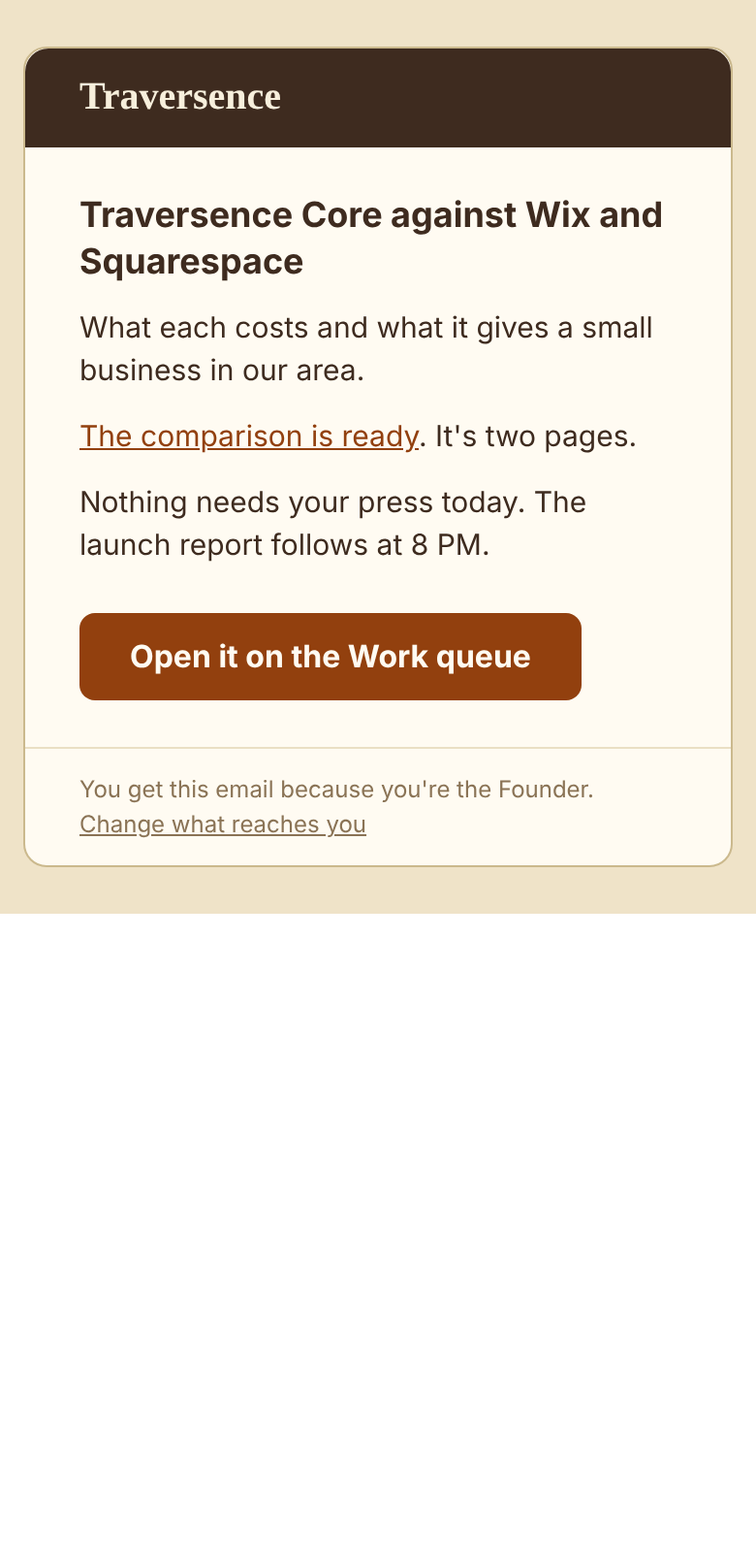
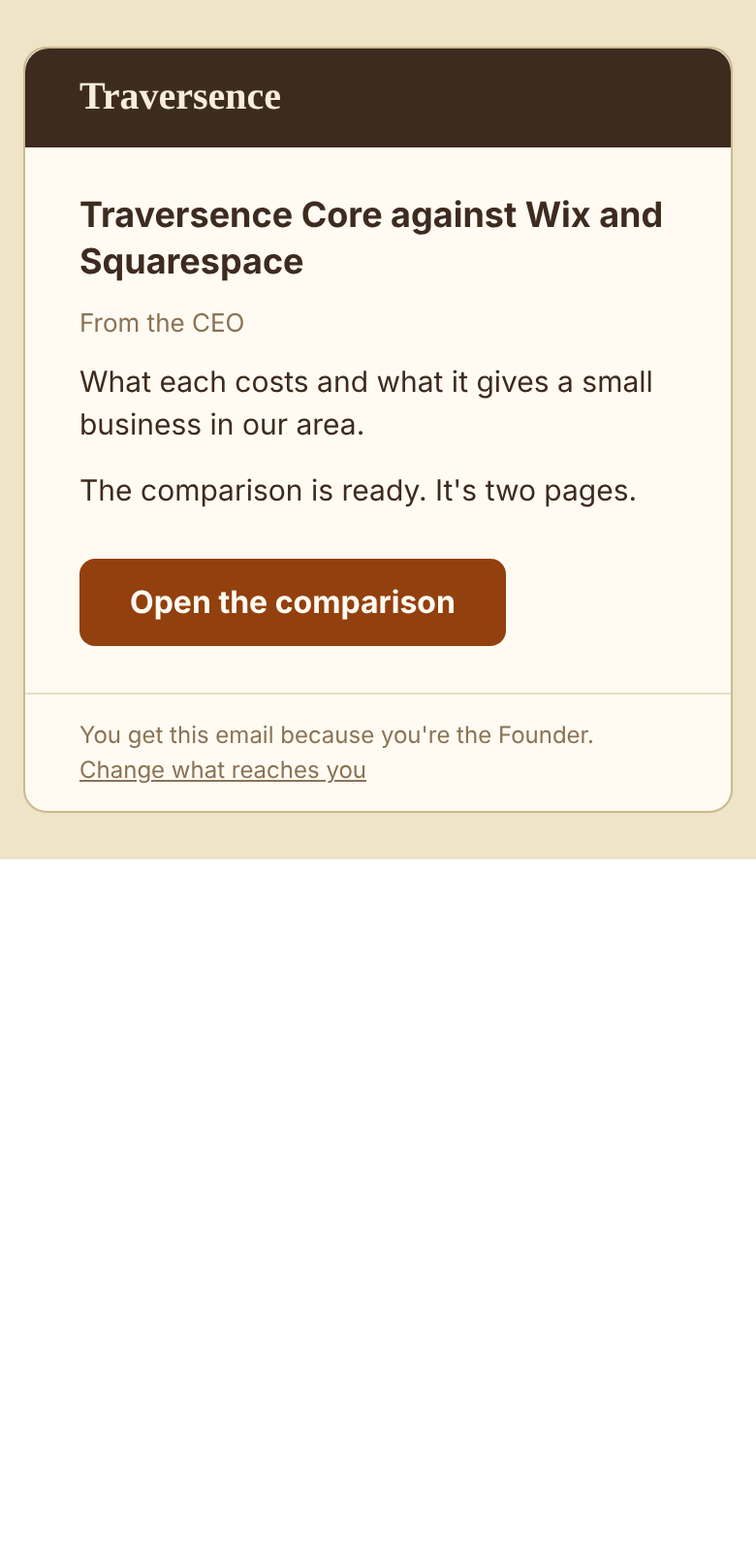
founder-link: the Founder's template (one button named for its target, From the CEO, the choices' name; gauges.py carries from)
Claude-Session: https://claude.ai/code/session_01CXLi5inRHU7bxiyPoYoi4v

Changed region(s): [[0.0, 0.1875, 1.0, 0.5938]]

diff --git a/handoffs/founder-link/screens/email.html b/handoffs/founder-link/screens/email.html
@@ -1,1 +1,1 @@
-<!doctype html><meta name=viewport content="width=device-width,initial-scale=1"><body style="margin:0"><table role="presentation" width="100%" cellpadding="0" cellspacing="0" bgcolor="#EFE3C8" style="background:#EFE3C8"><tr><td align="center" style="padding:24px 12px"><table role="presentation" width="100%" cellpadding="0" cellspacing="0" bgcolor="#FFFBF2" style="width:100%;max-width:560px;background:#FFFBF2;border:1px solid #CBB98D;border-radius:12px"><tr><td bgcolor="#3E2B1F" style="padding:14px 28px;border-radius:12px 12px 0 0;font-family:Georgia,serif;font-size:20px;font-weight:700;color:#F7EFDC">Traversence</td></tr><tr><td style="padding:24px 28px 10px;font-family:Segoe UI,Roboto,Helvetica,Arial,sans-serif;font-size:18px;font-weight:700;line-height:24px;color:#3E2B1F">Traversence Core against Wix and Squarespace</td></tr><tr><td style="padding:0 28px 6px"><p style="margin:0 0 12px;font-family:Segoe UI,Roboto,Helvetica,Arial,sans-serif;font-size:15px;line-height:22px;color:#3E2B1F">What each costs and what it gives a small business in our area.</p><p style="margin:0 0 12px;font-family:Segoe UI,Roboto,Helvetica,Arial,sans-serif;font-size:15px;line-height:22px;color:#3E2B1F"><a href="https://github.com/degraffics/traversence/blob/main/research/compare/compare.pdf" style="color:#92400E;text-decoration:underline">The comparison is ready</a>. It&#039;s two pages.</p><p style="margin:0 0 12px;font-family:Segoe UI,Roboto,Helvetica,Arial,sans-serif;font-size:15px;line-height:22px;color:#3E2B1F">Nothing needs your press today. The launch report follows at 8 PM.</p></td></tr><tr><td style="padding:6px 28px 24px"><table role="presentation" cellpadding="0" cellspacing="0"><tr><td bgcolor="#92400E" style="border-radius:8px;padding:12px 26px"><a href="https://traversence.com/admin/config/control?tab=development#wq-212" style="display:inline-block;font-family:Segoe UI,Roboto,Helvetica,Arial,sans-serif;font-size:16px;font-weight:700;color:#FFFBF2;text-decoration:none"><span style="color:#FFFBF2;text-decoration:none">Open it on the Work queue</span></a></td></tr></table></td></tr><tr><td style="padding:12px 28px;border-top:1px solid #EADFC4;font-family:Segoe UI,Roboto,Helvetica,Arial,sans-serif;font-size:12px;line-height:18px;color:#8A7355">You get this email because you&#039;re the Founder. <a href="https://traversence.com/admin/dashboard/comms" style="color:#8A7355;text-decoration:underline">Change what reaches you</a></td></tr></table></td></tr></table>
+<!doctype html><meta name=viewport content="width=device-width,initial-scale=1"><body style="margin:0"><table role="presentation" width="100%" cellpadding="0" cellspacing="0" bgcolor="#EFE3C8" style="background:#EFE3C8"><tr><td align="center" style="padding:24px 12px"><table role="presentation" width="100%" cellpadding="0" cellspacing="0" bgcolor="#FFFBF2" style="width:100%;max-width:560px;background:#FFFBF2;border:1px solid #CBB98D;border-radius:12px"><tr><td bgcolor="#3E2B1F" style="padding:14px 28px;border-radius:12px 12px 0 0;font-family:Georgia,serif;font-size:20px;font-weight:700;color:#F7EFDC">Traversence</td></tr><tr><td style="padding:24px 28px 10px;font-family:Segoe UI,Roboto,Helvetica,Arial,sans-serif;font-size:18px;font-weight:700;line-height:24px;color:#3E2B1F">Traversence Core against Wix and Squarespace</td></tr><tr><td style="padding:0 28px 10px;font-family:Segoe UI,Roboto,Helvetica,Arial,sans-serif;font-size:13px;line-height:18px;color:#8A7355">From the CEO</td></tr><tr><td style="padding:0 28px 6px"><p style="margin:0 0 12px;font-family:Segoe UI,Roboto,Helvetica,Arial,sans-serif;font-size:15px;line-height:22px;color:#3E2B1F">What each costs and what it gives a small business in our area.</p><p style="margin:0 0 12px;font-family:Segoe UI,Roboto,Helvetica,Arial,sans-serif;font-size:15px;line-height:22px;color:#3E2B1F">The comparison is ready. It&#039;s two pages.</p></td></tr><tr><td style="padding:6px 28px 24px"><table role="presentation" cellpadding="0" cellspacing="0"><tr><td bgcolor="#92400E" style="border-radius:8px;padding:12px 26px"><a href="https://github.com/degraffics/traversence/blob/main/research/compare/compare.pdf" style="display:inline-block;font-family:Segoe UI,Roboto,Helvetica,Arial,sans-serif;font-size:16px;font-weight:700;color:#FFFBF2;text-decoration:none"><span style="color:#FFFBF2;text-decoration:none">Open the comparison</span></a></td></tr></table></td></tr><tr><td style="padding:12px 28px;border-top:1px solid #EADFC4;font-family:Segoe UI,Roboto,Helvetica,Arial,sans-serif;font-size:12px;line-height:18px;color:#8A7355">You get this email because you&#039;re the Founder. <a href="https://traversence.com/admin/dashboard/comms" style="color:#8A7355;text-decoration:underline">Change what reaches you</a></td></tr></table></td></tr></table>

diff --git a/handoffs/founder-link/build/app/lib/FounderMail.php b/handoffs/founder-link/build/app/lib/FounderMail.php
@@ -57,7 +57,7 @@ final class FounderMail
         $lines = (array) $b['lines'];
         $body = ($b['date'] === gmdate('Y-m-d') ? "Today's batch: " : 'The batch of ' . date('M j', (int) strtotime($b['date'])) . ': ') . count($lines) . ' release' . (count($lines) === 1 ? '' : 's') . " waiting for your OK.\n\n";
         foreach ($lines as $l) $body .= '- ' . $l['release'] . ': ' . $l['what'] . ($l['why'] !== '' ? "\n  Why: " . $l['why'] : '') . ($l['checks'] !== '' ? "\n  Checks on staging: " . $l['checks'] : '') . ($l['way_back'] !== '' ? "\n  Way back: " . $l['way_back'] : '') . "\n";
-        $body .= "\nApprove it on the Work queue: " . self::DEV . "\nOr reply to this email.";
+        $body .= "\nOr reply to this email.";   // the button opens the batch (one link, the Founder's template; 0172 note)
         return self::once($pdo, 'batch:' . $b['date'], 'founder.batch', ['thread' => 'batch:' . $b['date'], 'url' => '/admin/config/control?tab=development'],
             ['title' => ($b['date'] === gmdate('Y-m-d') ? "Today's batch (" : 'The batch (') . date('M j', (int) strtotime($b['date'])) . '): ' . count($lines) . ' release' . (count($lines) === 1 ? '' : 's') . ' for your OK', 'body' => $body])
             ? 'Emailed the Founder the batch of ' . $b['date'] . '.' : '';
@@ -75,7 +75,7 @@ final class FounderMail
             . "\n\nOption B: " . $f('b_text') . "\n  For: " . $f('b_pros') . "\n  Against: " . $f('b_cons')
             . ($f('recommend') !== '' ? "\n\nRecommended: Option " . strtoupper($f('recommend')) : '')
             . ($f('delay_impact') !== '' ? "\n\nIf it waits: " . $f('delay_impact') : '') . ($f('cost') !== '' ? "\nCost: " . $f('cost') : '')
-            . "\n\nAnswer on its page: " . self::DEV . '#wq-' . $id . "\nOr reply to this email with A, B or your own words.";
+            . "\n\nOr reply to this email with A, B or your own words.";   // the button opens its page
         return self::once($pdo, 'decision:' . $id, 'founder.decision', ['thread' => 'task:' . $id, 'url' => '/admin/config/control?tab=development#wq-' . $id],
             ['title' => 'Founder ruling for you: ' . mb_substr((string) $t['what'], 0, 150), 'body' => $body]) ? 'Emailed the Founder task #' . $id . '\'s decision.' : '';
     }
@@ -117,6 +117,7 @@ final class FounderMail
             [$all, $pos] = $x[0];
             if (($x[1][1] ?? -1) >= 0) { $name = trim($x[1][0]); $url = $x[2][0]; }
             else { $all = rtrim($all, '.,;:!?'); $url = $all; $name = self::nameOf($url); }
+            $own = ($x[1][1] ?? -1) >= 0 ? $name : '';   // the name the words gave it, before a phrase takes over
             $before = $pos > $at ? substr($body, $at, $pos - $at) : '';
             // a phrase before a link ("Approve it on the Work queue: …", "The comparison is ready: […](…)") is the link itself,
             // so a line says one thing and calls once (the Design reviewer, 2026-11-27)
@@ -124,7 +125,7 @@ final class FounderMail
                 $name = trim($ph[2][0]); $before = substr($before, 0, $ph[2][1]);
             }
             if ($before !== '') $out[] = ['t', $before];
-            $out[] = ['l', $name, self::linkOf($url)];
+            $out[] = ['l', $name, self::linkOf($url), $own];
             $at = $pos + strlen($all);
         }
         if ($at < strlen($body)) $out[] = ['t', substr($body, $at)];
@@ -142,13 +143,14 @@ final class FounderMail
     }
 
     /** The text part: each of our links as "its name: its address" (mail apps without HTML need the address). */
-    public static function textOf(string $body): string
+    public static function textOf(string $body, string $except = ''): string
     {
         $t = ''; $after = false;   // after an address, its line ends there: a mail app would take a full stop into the link
         foreach (self::pieces($body) as $p) {
             if ($p[0] === 't') { $x = $p[1]; if ($after && preg_match('/^[.,;:!?]+[ \t]*/', $x, $q) === 1) { $x = substr($x, strlen($q[0])); $x = ($x !== '' && $x[0] !== "\n" ? "\n" : '') . $x; } $t .= $x; $after = false; continue; }
-            $t .= $p[2] !== '' ? $p[1] . ': ' . (str_starts_with($p[2], '/') ? 'https://traversence.com' . $p[2] : $p[2]) : $p[1];
-            $after = $p[2] !== '';
+            $to = $p[2] !== '' && !self::same($p[2], $except);   // the button's own place: words only, the button carries it
+            $t .= $to ? $p[1] . ': ' . (str_starts_with($p[2], '/') ? 'https://traversence.com' . $p[2] : $p[2]) : $p[1];
+            $after = $to;
         }
         return $t;
     }
@@ -190,13 +192,13 @@ final class FounderMail
     }
 
     /** The body in HTML: paragraphs, our links by their names, `code` as code. */
-    public static function htmlOf(string $body, string $font = ''): string
+    public static function htmlOf(string $body, string $font = '', string $except = ''): string
     {
         $e = fn ($s) => htmlspecialchars((string) $s, ENT_QUOTES);
         $h = '';
         foreach (self::pieces($body) as $p) {
             if ($p[0] === 't') { $h .= (string) preg_replace('/`([^`\n]*)`/u', '<code>$1</code>', $e($p[1])); continue; }
-            $h .= $p[2] !== '' ? '<a href="' . $e(str_starts_with($p[2], '/') ? 'https://traversence.com' . $p[2] : $p[2]) . '" style="color:#92400E;text-decoration:underline">' . $e($p[1]) . '</a>' : $e($p[1]);
+            $h .= $p[2] !== '' && !self::same($p[2], $except) ? '<a href="' . $e(str_starts_with($p[2], '/') ? 'https://traversence.com' . $p[2] : $p[2]) . '" style="color:#92400E;text-decoration:underline">' . $e($p[1]) . '</a>' : $e($p[1]);
         }
         $out = '';
         foreach (preg_split('/\n{2,}/', trim($h)) as $para) if (trim($para) !== '') $out .= '<p style="margin:0 0 12px;' . $font . 'font-size:15px;line-height:22px;color:#3E2B1F">' . nl2br($para, false) . '</p>';
@@ -208,11 +210,11 @@ final class FounderMail
     public const FOOTER = 'You get this email because you\'re the Founder.';
     public const CHOICES = 'https://traversence.com/admin/dashboard/comms';
 
-    public static function emailParts(string $title, string $body, string $link, string $text = ''): array
+    public static function emailParts(string $title, string $body, string $link, string $text = '', string $thing = '', string $from = ''): array
     {
         $body = self::untitled($body, $title);
-        $open = self::openLabel($link);
-        $text = trim($title) . "\n\n" . (trim($body) !== '' ? trim(self::textOf($body)) . "\n\n" : '') . $open . ': ' . $link . "\n\n"
+        $open = $thing !== '' ? self::buttonOf($thing, $link, $body) : self::openLabel($link);
+        $text = trim($title) . "\n" . ($from === 'ceo' ? "From the CEO\n" : '') . "\n" . (trim($body) !== '' ? trim(self::textOf($body, $link)) . "\n\n" : '') . $open . ': ' . $link . "\n\n"
               . "-- \n" . self::FOOTER . ' Change what reaches you: ' . self::CHOICES . "\nTraversence";
         $e = fn ($s) => htmlspecialchars((string) $s, ENT_QUOTES);
         $font = 'font-family:Segoe UI,Roboto,Helvetica,Arial,sans-serif;';
@@ -220,7 +222,8 @@ final class FounderMail
               . '<table role="presentation" width="100%" cellpadding="0" cellspacing="0" bgcolor="#FFFBF2" style="width:100%;max-width:560px;background:#FFFBF2;border:1px solid #CBB98D;border-radius:12px">'
               . '<tr><td bgcolor="#3E2B1F" style="padding:14px 28px;border-radius:12px 12px 0 0;font-family:Georgia,serif;font-size:20px;font-weight:700;color:#F7EFDC">Traversence</td></tr>'
               . '<tr><td style="padding:24px 28px 10px;' . $font . 'font-size:18px;font-weight:700;line-height:24px;color:#3E2B1F">' . $e($title) . '</td></tr>'
-              . '<tr><td style="padding:0 28px 6px">' . self::htmlOf($body, $font) . '</td></tr>'
+              . ($from === 'ceo' ? '<tr><td style="padding:0 28px 10px;' . $font . 'font-size:13px;line-height:18px;color:#8A7355">From the CEO</td></tr>' : '')
+              . '<tr><td style="padding:0 28px 6px">' . self::htmlOf($body, $font, $link) . '</td></tr>'
               . '<tr><td style="padding:6px 28px 24px"><table role="presentation" cellpadding="0" cellspacing="0"><tr><td bgcolor="#92400E" style="border-radius:8px;padding:12px 26px">'
               . '<a href="' . $e($link) . '" style="display:inline-block;' . $font . 'font-size:16px;font-weight:700;color:#FFFBF2;text-decoration:none"><span style="color:#FFFBF2;text-decoration:none">' . $e($open) . '</span></a></td></tr></table></td></tr>'
               . '<tr><td style="padding:12px 28px;border-top:1px solid #EADFC4;' . $font . 'font-size:12px;line-height:18px;color:#8A7355">' . $e(self::FOOTER) . ' '
@@ -235,11 +238,41 @@ final class FounderMail
         $e = fn ($s) => htmlspecialchars((string) $s, ENT_QUOTES);
         $html = '';
         foreach (preg_split('/\n{2,}/', trim(self::untitled((string) $m['body'], (string) ($m['title'] ?? '')))) as $para) if (trim($para) !== '') {
-            $h = ''; foreach (self::pieces($para) as $p) $h .= $p[0] === 't' ? (string) preg_replace('/`([^`\n]*)`/u', '<code>$1</code>', $e($p[1])) : ($p[2] !== '' ? '<a href="' . $e($p[2]) . '">' . $e($p[1]) . '</a>' : $e($p[1]));
+            $h = ''; foreach (self::pieces($para) as $p) $h .= $p[0] === 't' ? (string) preg_replace('/`([^`\n]*)`/u', '<code>$1</code>', $e($p[1])) : ($p[2] !== '' && !self::same($p[2], (string) ($m['url'] ?? '')) ? '<a href="' . $e($p[2]) . '">' . $e($p[1]) . '</a>' : $e($p[1]));
             $html .= '<p>' . nl2br($h, false) . '</p>';
         }
-        if ((string) ($m['url'] ?? '') !== '') $html .= '<p class="tv-msg-acts"><a class="tv-btn" href="' . $e($m['url']) . '">' . $e(self::openLabel((string) $m['url'])) . '</a></p>';
+        if ((string) ($m['url'] ?? '') !== '') $html .= '<p class="tv-msg-acts"><a class="tv-btn" href="' . $e($m['url']) . '">' . $e(self::buttonOf((string) ($m['thing'] ?? ''), (string) $m['url'], (string) $m['body'])) . '</a></p>';
         return ['html' => $html, 'state' => ''];
+    }
+
+    /** Who a message is from, by its thing ("message:<id>"): "ceo" when batch.json's message says so, else '' (the 0172
+     *  note, 2026-11-27: "From the CEO" under the title for the CEO's messages only). */
+    public static function fromOf(PDO $pdo, string $thing): string
+    {
+        if (!str_starts_with($thing, 'message:')) return '';
+        try {
+            require_once __DIR__ . '/ControlGauges.php';
+            foreach ((array) (ControlGauges::config($pdo, true)['messages'] ?? []) as $m)
+                if (is_array($m) && 'message:' . ($m['id'] ?? '') === $thing) return ($m['from'] ?? '') === 'ceo' ? 'ceo' : '';
+        } catch (Throwable $x) {}
+        return '';
+    }
+
+    /** Whether a link in the words goes where the button goes (one link to a place: the button). */
+    public static function same(string $a, string $b): bool
+    {
+        $f = fn ($u) => str_starts_with($u, '/') ? 'https://traversence.com' . $u : $u;
+        return $a !== '' && $f($a) === $f($b);
+    }
+
+    /** The one button, named for what it opens (the Founder's template, the 0172 note; Design, 2026-11-27): today's batch,
+     *  the decision, or the message's own link by its name in the words, else by where it goes. */
+    public static function buttonOf(string $thing, string $link, string $body = ''): string
+    {
+        if (str_starts_with($thing, 'batch:')) return substr($thing, 6) === gmdate('Y-m-d') ? 'Open today\'s batch' : 'Open the batch';
+        if (str_starts_with($thing, 'decision:')) return 'Open the decision';
+        foreach (self::pieces($body) as $p) if ($p[0] === 'l' && $p[2] !== '' && self::same($p[2], $link) && ($p[3] ?? '') !== '') return 'Open ' . lcfirst((string) preg_replace('/^Open\s+/i', '', $p[3]));
+        return self::openLabel($link);
     }
 
     /** The session manager's messages (gauges.json's "messages"), each id once. */

diff --git a/tools/notify-founder-tests/founder.php b/tools/notify-founder-tests/founder.php
@@ -40,7 +40,7 @@ $pdo->exec("INSERT INTO staff_accounts (user_id, staff_id, name, email, role, le
 // today's batch
 $out = FounderMail::tick($pdo); $s = Notify::$sent[0] ?? null;
 $t('today\'s batch: emailed once, to the Founder alone (not staff, not an ended login)', count(Notify::$sent) === 1 && $s['kind'] === 'founder.batch' && $s['to'] === ['staff' => [6]], [$out, Notify::$sent]);
-$t('… its lines, why, checks, way back and the Work queue\'s link', str_contains($s['words']['body'], 'p3-1.zip: The before-and-after check') && str_contains($s['words']['body'], 'Checks on staging: beforeafter.test 19') && str_contains($s['words']['body'], 'https://traversence.com/admin/config/control?tab=development') && str_contains($s['words']['title'], '1 release for your OK'), $s['words']);
+$t('… its lines, why, checks, way back; the Work queue its button only, never a second link in the words (the 0172 note)', str_contains($s['words']['body'], 'p3-1.zip: The before-and-after check') && str_contains($s['words']['body'], 'Checks on staging: beforeafter.test 19') && !str_contains($s['words']['body'], 'https://') && $s['about']['url'] === '/admin/config/control?tab=development' && str_contains($s['words']['title'], '1 release for your OK'), $s['words']);
 $t('… on its own thread, batch:<date>', $s['about']['thread'] === 'batch:' . $today && $s['about']['thing'] === 'batch:' . $today);
 $t('… the next run sends nothing again', FounderMail::tick($pdo) === [] && count(Notify::$sent) === 1);
 // the latest batch until it's approved (the session manager, 2026-11-26: one merged late in the UTC day never showed)
@@ -90,6 +90,18 @@ $t('… the text part: each address after its phrase, one colon; Open it on the 
 [$tx2, $hx2] = FounderMail::emailParts('Traversence Core', "Traversence Core: what each costs.\n\nMore.", '/x');
 $t('… in the text part an address ends its line: ". It\'s two pages" starts the next (Design\'s note)', FounderMail::textOf('Ready: [x](https://github.com/degraffics/t/a.pdf). It\'s two pages.') === "Ready: https://github.com/degraffics/t/a.pdf\nIt's two pages.", FounderMail::textOf('Ready: [x](https://github.com/degraffics/t/a.pdf). It\'s two pages.'));
 $t('… the email\'s first paragraph never repeats its heading', str_contains($hx2, '>What each costs.</p>') && substr_count($hx2, 'Traversence Core') === 1 && str_contains($tx2, "Traversence Core\n\nWhat each costs."), $hx2);
+$t('the one button is named for what it opens: today\'s batch, the decision, the message\'s own named link, else its place', FounderMail::buttonOf('batch:' . gmdate('Y-m-d'), '/x') === 'Open today\'s batch' && FounderMail::buttonOf('batch:2026-01-01', '/x') === 'Open the batch' && FounderMail::buttonOf('decision:7', '/x') === 'Open the decision' && FounderMail::buttonOf('message:a', 'https://github.com/degraffics/t/x.pdf', 'See [the comparison](https://github.com/degraffics/t/x.pdf).') === 'Open the comparison' && FounderMail::buttonOf('message:a', '/admin/config/control?tab=development#wq-4', 'Words.') === 'Open it on the Work queue');
+[$tc, $hc] = FounderMail::emailParts('Pricing', 'What it costs.', 'https://github.com/degraffics/t/x.pdf', '', 'message:c1', 'ceo');
+[$tn, $hn] = FounderMail::emailParts('Pricing', 'What it costs.', 'https://github.com/degraffics/t/x.pdf', '', 'message:c2', '');
+$t('"From the CEO" under the title for the CEO\'s messages only, in both parts; no second Open it', str_contains($hc, '>From the CEO</td>') && str_contains($tc, "Pricing\nFrom the CEO\n\nWhat it costs.") && !str_contains($hn, 'From the CEO') && !str_contains($tn, 'From the CEO') && substr_count($hc, '>Open it on GitHub</span>') === 1 && substr_count($tc, 'Open it on GitHub: https://') === 1, $tc);
+[$t1, $h1] = FounderMail::emailParts('T', 'The comparison is ready: [the comparison](https://github.com/degraffics/t/x.pdf). Two pages.', 'https://github.com/degraffics/t/x.pdf', '', 'message:d1');
+$t('one link to a place: a link in the words to the button\'s own address is words only; the button takes the link\'s own name', substr_count($h1, 'href="https://github.com/degraffics/t/x.pdf"') === 1 && str_contains($h1, '>Open the comparison</span>') && substr_count($t1, 'https://github.com/degraffics/t/x.pdf') === 1 && str_contains($t1, 'The comparison is ready. Two pages.'), $t1);
+$pd = FounderMail::pulseBody($pdo, ['body' => 'Ready: [x](/admin/y).', 'url' => '/admin/y', 'thing' => 'message:z'], 1);
+$t('… in Pulse too', substr_count($pd['html'], 'href="/admin/y"') === 1, $pd);
+$gauges([], [['id' => 'sm-ceo', 'subject' => 'S', 'body' => 'b', 'task' => 3, 'from' => 'ceo'], ['id' => 'sm-sm', 'subject' => 'S', 'body' => 'b', 'task' => 3, 'from' => 'session-manager']]);
+$t('… who it\'s from, read from batch.json\'s message by its id', FounderMail::fromOf($pdo, 'message:sm-ceo') === 'ceo' && FounderMail::fromOf($pdo, 'message:sm-sm') === '' && FounderMail::fromOf($pdo, 'batch:x') === '');
+$pdo->exec("DELETE FROM founder_mail_sent WHERE k IN ('message:sm-ceo','message:sm-sm')"); FounderMail::tick($pdo);
+$t('the choices name it for the email: "A message for the Founder", never "the session manager"', str_contains($real, "'founder.message'  => ['A message") && !preg_match("/'founder\\.message'\\s*=>\\s*\\['[^']*session manager/", (string) file_get_contents($src . '/lib/Notify.php')));
 $pb = FounderMail::pulseBody($pdo, ['body' => $wb, 'url' => '/admin/config/control?tab=development#wq-4'], 1);
 $t('Pulse: the same named links, and its button naming its place', str_contains($pb['html'], '>The comparison is ready</a>') && str_contains($pb['html'], '>Approve it on the Work queue</a>') && str_contains($pb['html'], 'class="tv-btn" href="/admin/config/control?tab=development#wq-4">Open it on the Work queue</a>'), $pb);
 $nv = (string) file_get_contents($src . '/lib/Notify.php');
@@ -98,7 +110,7 @@ $t('the dispatcher hands only founder.* kinds to FounderMail: push line, email p
 $r = GaugeTasks::add($pdo, 'area:backlog', 'May staff text go to Gemini\'s paid key?', 'why', '0164 §0.8', 'Jason (test)', 1, '', 'resolution');
 foreach (['why_you' => 'Privacy (0179 rule 3)', 'boundary' => 'privacy', 'a_text' => 'Paid key, checked', 'a_pros' => 'A second model', 'a_cons' => 'A privacy risk', 'b_text' => 'Public only', 'b_pros' => 'No new risk', 'b_cons' => 'One model', 'recommend' => 'b', 'delay_impact' => 'Safe on hold', 'cost' => 'None'] as $k => $v) GaugeTasks::briefEdit($pdo, $r, $k, $v, 'Jason (test)');
 GaugeTasks::sendBrief($pdo, $r, 'Jason (test)'); $d = end(Notify::$sent);
-$t('a decision reaching "Waiting for you": emailed with its brief, options, recommendation and its page\'s link', $d['kind'] === 'founder.decision' && str_contains($d['words']['body'], 'Option A: Paid key, checked') && str_contains($d['words']['body'], 'Recommended: Option B') && str_contains($d['words']['body'], '#wq-' . $r) && $d['about']['thread'] === 'task:' . $r, $d);
+$t('a decision reaching "Waiting for you": emailed with its brief, options, recommendation and its page\'s link', $d['kind'] === 'founder.decision' && str_contains($d['words']['body'], 'Option A: Paid key, checked') && str_contains($d['words']['body'], 'Recommended: Option B') && !str_contains($d['words']['body'], 'https://') && $d['about']['url'] === '/admin/config/control?tab=development#wq-' . $r && $d['about']['thread'] === 'task:' . $r, $d);
 $n = count(Notify::$sent); FounderMail::decision($pdo, $r);
 $t('… once: asked again, nothing more', count(Notify::$sent) === $n);
 $t('… only a Resolution waiting: a Work ticket never', FounderMail::decision($pdo, GaugeTasks::add($pdo, 'area:backlog', 'A work ticket', 'w', 's', 'J', 1)) === '');

diff --git a/tools/notify-founder-tests/notify-diff.php b/tools/notify-founder-tests/notify-diff.php
@@ -12,13 +12,15 @@ $pass = 0; $fail = 0;
 $t = function (string $n, bool $ok) use (&$pass, &$fail) { if ($ok) { $pass++; echo "  ok  $n\n"; } else { $fail++; echo "FAIL  $n\n"; } };
 $adds = [
     "            // the Founder's push is its subject and one plain sentence, no address or code (Jason, 2026-11-27: \"The push is\n            // clutter with code vs a clean on brand message\"); FounderMail owns the founder.* kinds' words\n            if (str_starts_with((string) \$m['kind'], 'founder.')) { require_once __DIR__ . '/FounderMail.php'; \$pbody = FounderMail::pushLine((string) \$m['body'], (string) \$m['title']); }\n",
-    "        // the Founder's emails name their links (Jason, 2026-11-27; FounderMail): an HTML part with each link as its name and\n        // Open it as a button; the text part keeps each address after its name, for mail apps without HTML\n        \$html = '';\n        if (str_starts_with((string) \$m['kind'], 'founder.')) { require_once __DIR__ . '/FounderMail.php'; [\$text, \$html] = FounderMail::emailParts((string) \$m['title'], (string) \$m['body'], \$link, \$text); }\n",
+    "        // the Founder's emails name their links (Jason, 2026-11-27; FounderMail): an HTML part with each link as its name and\n        // Open it as a button; the text part keeps each address after its name, for mail apps without HTML\n        \$html = '';\n        if (str_starts_with((string) \$m['kind'], 'founder.')) { require_once __DIR__ . '/FounderMail.php'; [\$text, \$html] = FounderMail::emailParts((string) \$m['title'], (string) \$m['body'], \$link, \$text, (string) \$m['thing'], FounderMail::fromOf(\$pdo, (string) \$m['thing'])); }\n",
     "        // the Founder's messages with their links named in Pulse too (Jason, 2026-11-27; FounderMail)\n        'founder.batch' => ['FounderMail.php', 'FounderMail', 'pulseBody'],\n        'founder.decision' => ['FounderMail.php', 'FounderMail', 'pulseBody'],\n        'founder.message' => ['FounderMail.php', 'FounderMail', 'pulseBody'],\n",
 ];
 foreach ($adds as $i => $a) $t('addition ' . ($i + 1) . ' is in the release once', substr_count($rel, $a) === 1);
 $back = str_replace($adds, '', $rel);
 $back = str_replace("\$text, \$name !== '' ? \$name : null, \$as, \$html); }", "\$text, \$name !== '' ? \$name : null, \$as); }", $back, $n);
 $t('the one changed line: Mailer::send is passed $html (once)', $n === 1);
+$back = str_replace("'founder.message'  => ['A message for the Founder', 'What the CEO or the team needs you to know or answer, sent by the site.',", "'founder.message'  => ['A message from the session manager', 'What the session manager needs you to know or answer, sent by the site.',", $back, $n2);
+$t('… and founder.message\'s own name in the choices: "A message for the Founder", never "the session manager" (the 0172 note)', $n2 === 1);
 $t('with the additions taken out, the release is live\'s Notify.php byte for byte', $back === $live);
 $t('every behaviour added is guarded by the founder. prefix (push, email) or keyed by a founder.* kind (Pulse)', substr_count($rel, "str_starts_with((string) \$m['kind'], 'founder.')") === 2);
 $t('Mailer::send\'s $html defaults to \'\' (the call for any other kind is the call it was)', (bool) preg_match('/public static function send\(string \$toEmail, string \$subject, string \$textBody, \?string \$toName = null, string \$as = \'\', string \$html = \'\'/', (string) @file_get_contents(dirname($argv[1]) . '/Mailer.php')));

diff --git a/handoffs/founder-link/build/app/lib/Notify.php b/handoffs/founder-link/build/app/lib/Notify.php
@@ -86,7 +86,7 @@ final class Notify
         // batch, a Founder ruling (Tier 5) waiting, the session manager's messages. Email on, and not one that can be turned off.
         'founder.batch'    => ['Today\'s batch for your OK', 'The releases waiting for your approval today (decisions/0179 rule 1), with the link to approve them.', 'alert', 'staff', 'Team', true, false, 'system', ''],
         'founder.decision' => ['A Founder ruling for you (Tier 5)', 'A 4-part Decision Brief waiting for your ruling (decisions/0180): the decision, why it needs you, the options and the recommendation.', 'urgent', 'staff', 'Team', true, false, 'system', ''],
-        'founder.message'  => ['A message from the session manager', 'What the session manager needs you to know or answer, sent by the site.', 'alert', 'staff', 'Team', true, false, 'system', ''],
+        'founder.message'  => ['A message for the Founder', 'What the CEO or the team needs you to know or answer, sent by the site.', 'alert', 'staff', 'Team', true, false, 'system', ''],
         // staging's own news to whoever pressed (2026-11-26: "Staging is refreshed" had gone to a staff login's hidden address):
         // a fresh copy finished or stopped, a publish done or stopped (StagingSite::tellPerson)
         'staging.done'   => ['Staging: a copy or a publish finished', 'Staging was refreshed or published, or one of those stopped: what happened and where to see it.', 'notice', 'staff', 'Team', true, true, 'system', ''],
@@ -594,7 +594,7 @@ final class Notify
         // the Founder's emails name their links (Jason, 2026-11-27; FounderMail): an HTML part with each link as its name and
         // Open it as a button; the text part keeps each address after its name, for mail apps without HTML
         $html = '';
-        if (str_starts_with((string) $m['kind'], 'founder.')) { require_once __DIR__ . '/FounderMail.php'; [$text, $html] = FounderMail::emailParts((string) $m['title'], (string) $m['body'], $link, $text); }
+        if (str_starts_with((string) $m['kind'], 'founder.')) { require_once __DIR__ . '/FounderMail.php'; [$text, $html] = FounderMail::emailParts((string) $m['title'], (string) $m['body'], $link, $text, (string) $m['thing'], FounderMail::fromOf($pdo, (string) $m['thing'])); }
         try {
             require_once __DIR__ . '/Mailer.php';
             $flag = property_exists('Mailer', 'routed');   // Mailer logs its own sends; this message's route is written here instead

diff --git a/tools/page-audit/gauges.py b/tools/page-audit/gauges.py
@@ -220,7 +220,7 @@ def _batch(path=None):
 
 def _messages(path=None):
     """The session manager's messages for the Founder (releases/batch.json "messages"; notify-founder, Jason 2026-11-25): the
-    site emails each id once, to the Founder only (FounderMail). [{id, at, subject, body, link?, task?}], checked field by field."""
+    site emails each id once, to the Founder only (FounderMail). [{id, at, subject, body, link?, task?, from?}], checked field by field."""
     try:
         d = json.load(open(path or os.path.join(os.path.dirname(__file__), '..', '..', 'releases', 'batch.json')))
     except (OSError, ValueError):
@@ -236,6 +236,11 @@ def _messages(path=None):
                 o['link'] = link[:500]
             if isinstance(task, int) and not isinstance(task, bool) and task > 0:
                 o['task'] = task
+            if m.get('from') in ('ceo', 'session-manager'):
+                o['from'] = m['from']   # "From the CEO" under the title for the CEO's (the 0172 note, 2026-11-27)
+            lines = [x for x in o['body'].split('\n') if x.strip()]
+            if len(lines) > 3 or len(o['body']) > 400:
+                print('warning: message %s runs %d lines (%d characters): the Founder\'s template is 2-3 short lines' % (o['id'], len(lines), len(o['body'])), file=sys.stderr)
             if 'link' not in o and 'task' not in o:
                 print('warning: message %s has neither "link" nor "task": its email will open the Work queue' % o['id'], file=sys.stderr)
             out.append(o)

diff --git a/tools/team-tests/batch_py.py b/tools/team-tests/batch_py.py
@@ -29,5 +29,10 @@ with contextlib.redirect_stderr(_e):
     m = g._messages(tmp({'messages': [{'id': 'a', 'subject': 's', 'link': 'https://github.com/degraffics/traversence/x.pdf'}, {'id': 'b', 'subject': 's', 'task': 41}, {'id': 'c', 'subject': 's'}, {'id': 'd', 'subject': 's', 'task': True}]}))
 t('messages carry link and task (notify-founder\'s Open it); a true task is no task', m[0].get('link', '').endswith('x.pdf') and m[1].get('task') == 41 and 'task' not in m[3], m)
 t('… neither: warned at write time, never refused', [x['id'] for x in m] == ['a', 'b', 'c', 'd'] and 'message c has neither' in _e.getvalue() and 'message d has neither' in _e.getvalue() and 'message a' not in _e.getvalue(), _e.getvalue())
+_e2 = io.StringIO()
+with contextlib.redirect_stderr(_e2):
+    m2 = g._messages(tmp({'messages': [{'id': 'f1', 'subject': 's', 'task': 1, 'from': 'ceo'}, {'id': 'f2', 'subject': 's', 'task': 1, 'from': 'someone'}, {'id': 'f3', 'subject': 's', 'task': 1, 'body': 'a\nb\nc\nd'}]}))
+t('from: ceo or session-manager carried, anything else left out', m2[0].get('from') == 'ceo' and 'from' not in m2[1], m2)
+t('… a body over 3 lines warned (the template is 2-3 short lines), never refused', 'message f3 runs 4 lines' in _e2.getvalue() and len(m2) == 3 and 'f1 runs' not in _e2.getvalue(), _e2.getvalue())
 t('gauges.json carries batch and answers', 'batch' in s and 'answers' in s and isinstance(s['answers'], list))
 print('\n%d passed, %d failed' % (ok, bad)); sys.exit(1 if bad else 0)

diff --git a/README.md b/README.md
@@ -69,7 +69,7 @@ The site's code isn't here. It runs on the server and in OneDrive, and its live 
 | `tools/search-tests/` | Search's tests (the launch plan's C.1): `device-place.php` (the place from Auto-detect, or a town or ZIP set with no area named, inside one of our areas is that area's town; outside stays outside; 7 checks on MariaDB) |
 | `tools/path-checker-tests/` | The path checker's own test (the launch plan's C.2): `staff-in.mjs` with a stand-in sign-in page in `fake/` (check-kit.mjs's staff sign-in never reuses a two-step step, and retries once on the next step; 4 checks); `buy-runners.mjs` (the buying paths' runners on the design harness in QuickBooks mock: plan-buy, then shop-buy, and the guard that refuses anywhere but staging) |
 | `tools/release-tests/` | The release pipeline's record in git: `record.php` (a release record refused as stale is read and written again; one that won't save is said on its card and saved by the 10-minute job; Release #301's missing Live, 2026-11-26; 15 checks, a fake GitHub) |
-| `tools/notify-founder-tests/` | notify-founder's test: `founder.php` (the site emails the Founder itself: today's batch, a Tier 3 decision and the session manager's messages, each once, to the Founder alone, never from staging; each message's Open it by its own link or Work queue ticket; its push one plain sentence and its email's links named; 36 checks on MariaDB) and `notify-diff.php` (the dispatcher less the founder.* additions is live's byte for byte; 7 checks) |
+| `tools/notify-founder-tests/` | notify-founder's test: `founder.php` (the site emails the Founder itself: today's batch, a Tier 3 decision and the session manager's messages, each once, to the Founder alone, never from staging; each message's Open it by its own link or Work queue ticket; its push one plain sentence; its email on the sign-in code's template, one button named for its target, From the CEO; 42 checks on MariaDB) and `notify-diff.php` (the dispatcher less the founder.* additions is live's byte for byte; 8 checks) |
 | `tools/config-rail-tests/` | config-rail's test (Jason, 2026-11-25: System Configuration's pages in the side menu): `config-rail.cjs` with `router.php` (the real shell and menu at 1280 and 390: order, current page, greyed with why, 20 checks) |
 | `tools/piece3-tests/` | Piece 3's tests (decisions/0179 rule 2; `handoffs/piece3-check.md`; its README): `beforeafter.test.mjs` with `fixture-router.php` (the before-and-after check's four rules on a fixture site, 19 checks), `reach_test.py` (the pages a file reaches, 9 checks), `pipeline.php` (P3-2: the site's side on MariaDB, 22 checks), `held.php` (P3-5: the held names' locked read, 14 checks), `fence_test.py` (P3-6: reach.py's fence and send.py's refusal, 17 checks), `onstates.php` (the check on in every switch state but off, killed off; 7 checks), `closed.php` (a release never asks for its before look of a closed staging: it waits, says so, asks once staging opens; 10 checks) and `compare-closed.test.mjs` (a before look from a closed staging is incomplete, never a block; the four rules unchanged; 10 checks), `plan-sample.test.mjs` (a look's views: the extra member advocates sample, every page under every rule, the busiest release inside 20 minutes a phase; 14 checks), `tickwait.php` (the 10-minute job leaves a release waiting for its before look off staging; no wrong note when its look comes in; 6 checks) and `signin.test.mjs` (an account that alone checks a kind of page failing to sign in makes the look incomplete; 9 checks), `fold-real.test.mjs` (tabs folded under More by the live `js/tv-ask.js` read as the same controls; 7 checks); `beforeafter.test.mjs`'s alarm cases (the system's state lines, an alarm's thread, the dashboard's status rows, status lines and notices, are drift only for a release that touches what draws them, 2026-11-26) and its record cases (a list's, table's or card's values are data, never drift; a column or control added still is, 2026-11-26) |
 | `tools/staging-tests/` | decisions/0165's tests: `unit.php` (the merge rules, the register of record numbers, the table classes, the gate's scan) and `db.php` (catch-up, renumbering, preview, publish, backward undo and roll back on a real MySQL or MariaDB); `conn-gone.php` (a kept connection the server closed is made again; the stopped copy of 2026-11-26), `mirror-on.php` and `mirror-words.cjs` with `page-router.php` and `mirror-seed.php` (Keep staging caught up says off, turning on, on or didn't turn on; it switches on at the copy's last step; nothing previewed or published from half a copy; at 1280 and 390), `redraw.cjs` (the Staging page's status lines keep their boxes after a press and its redraw; 6 checks at 1280 and 390) |
